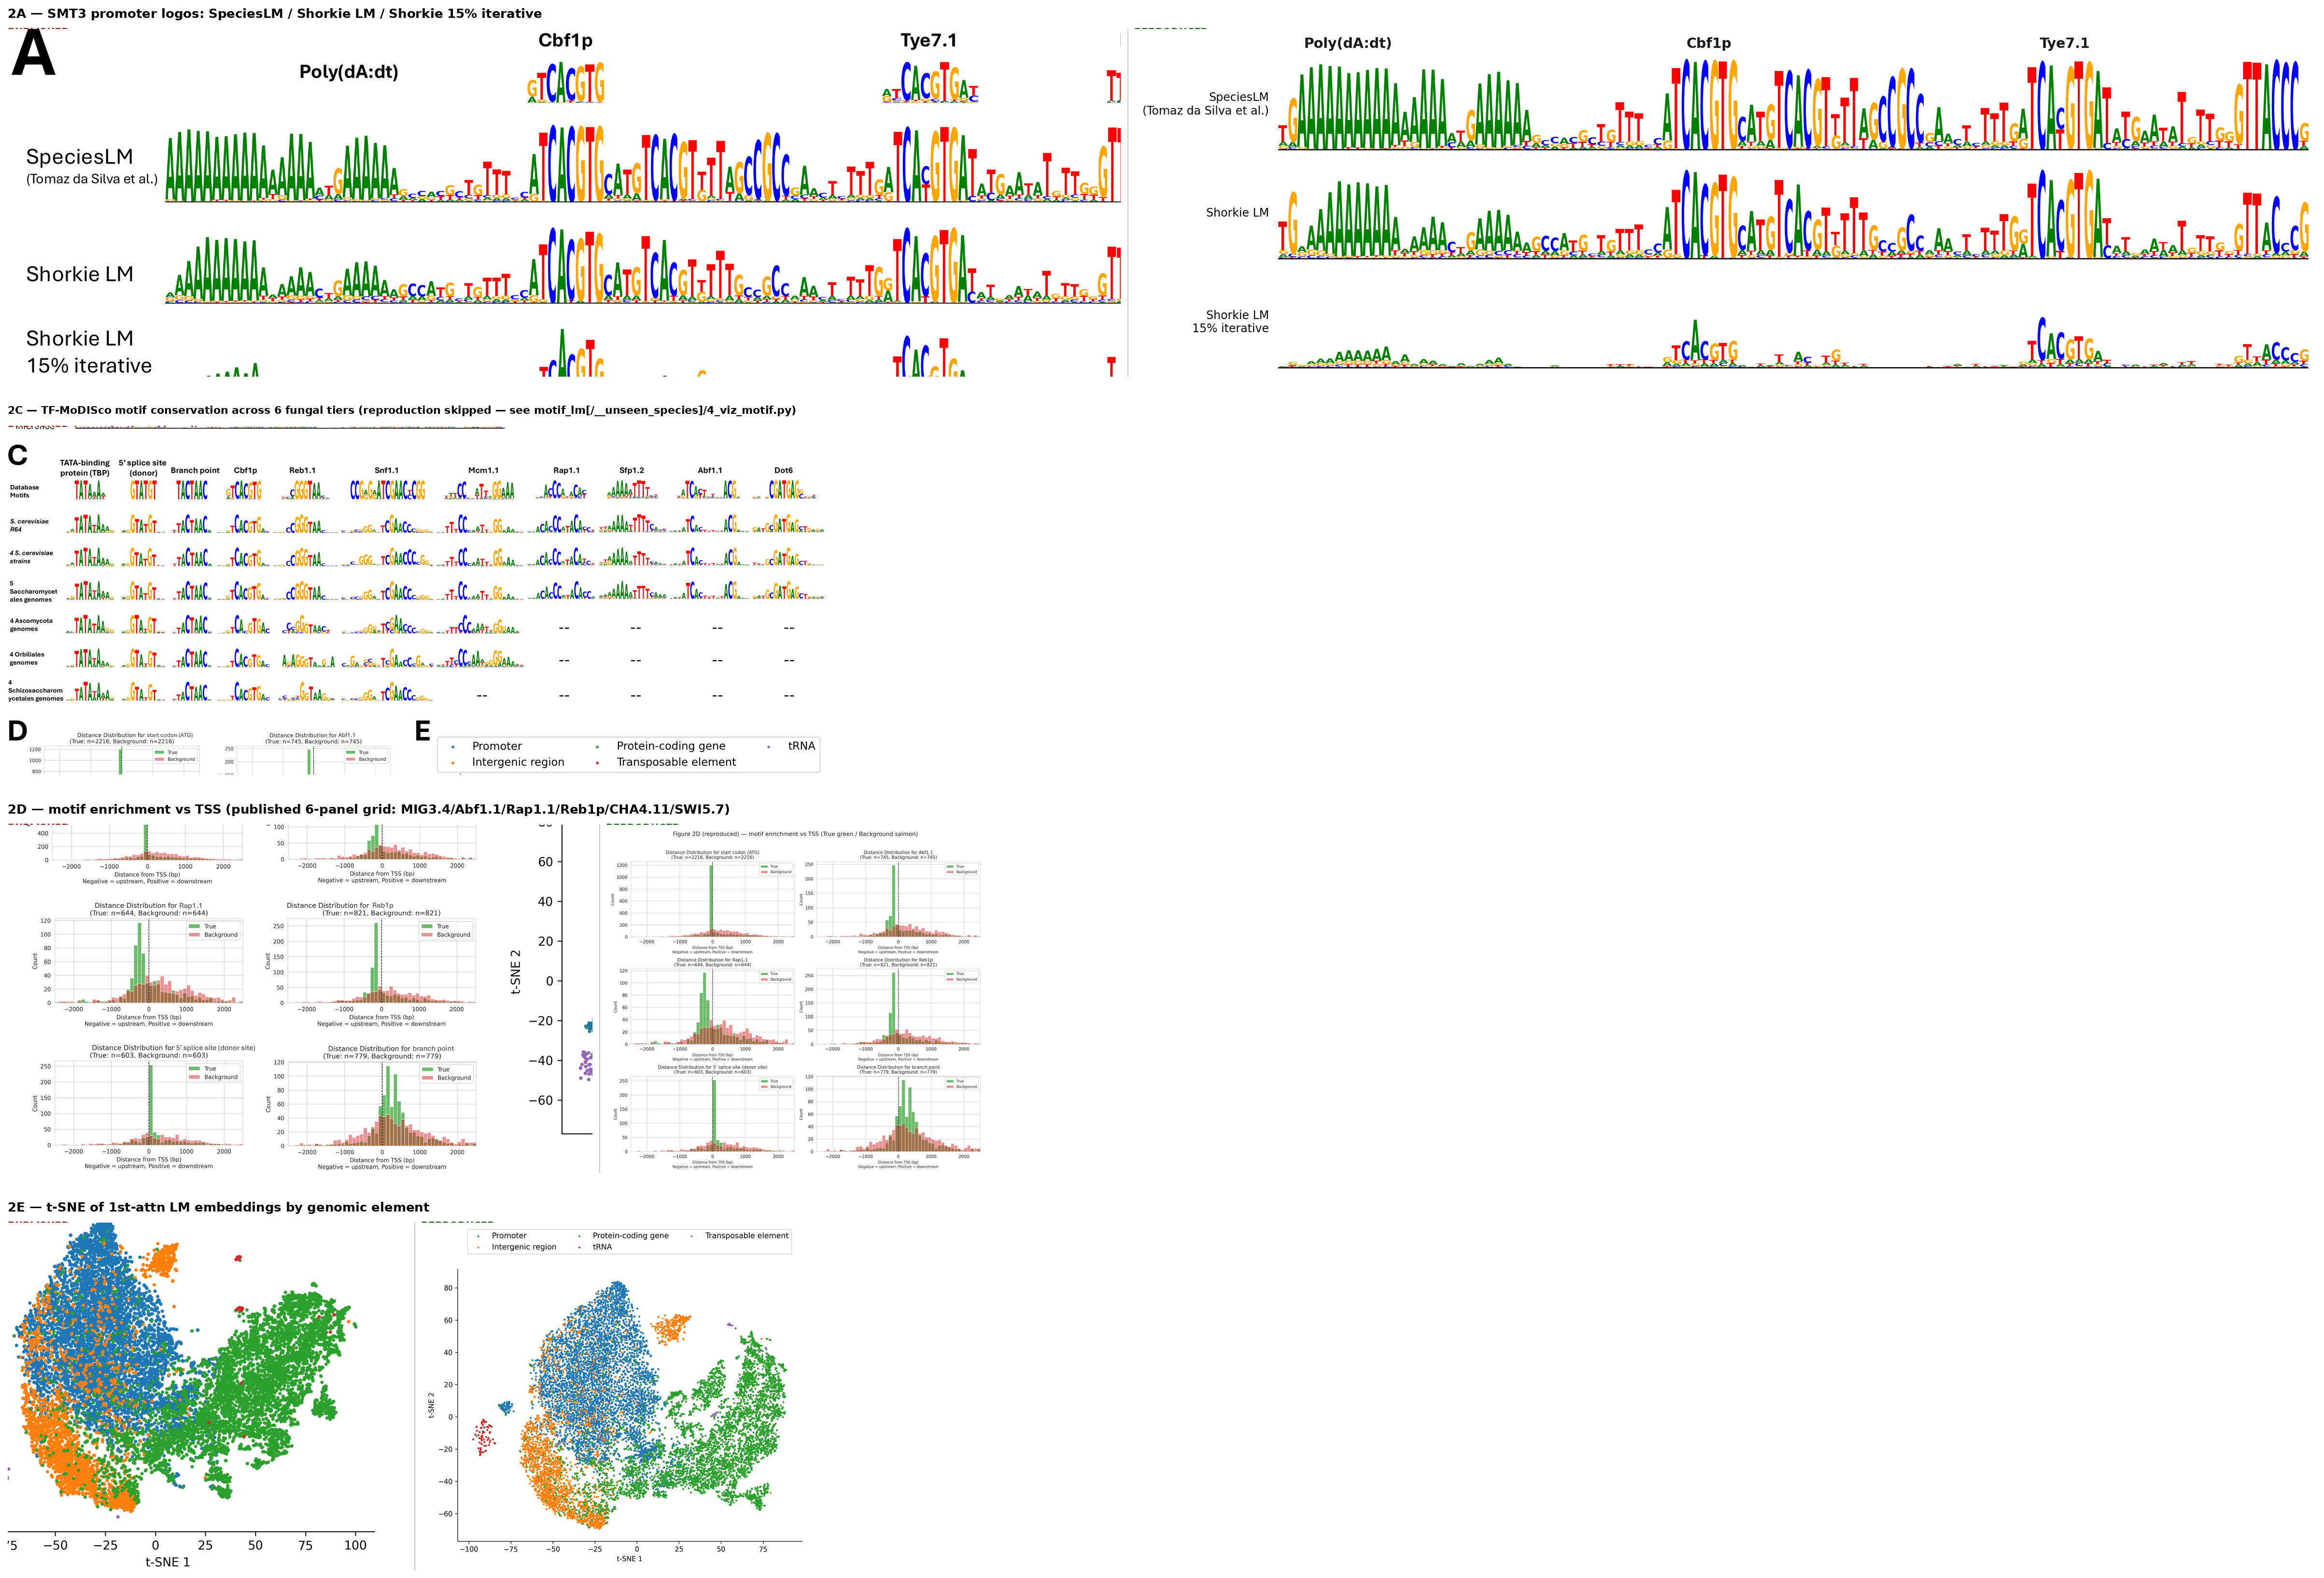
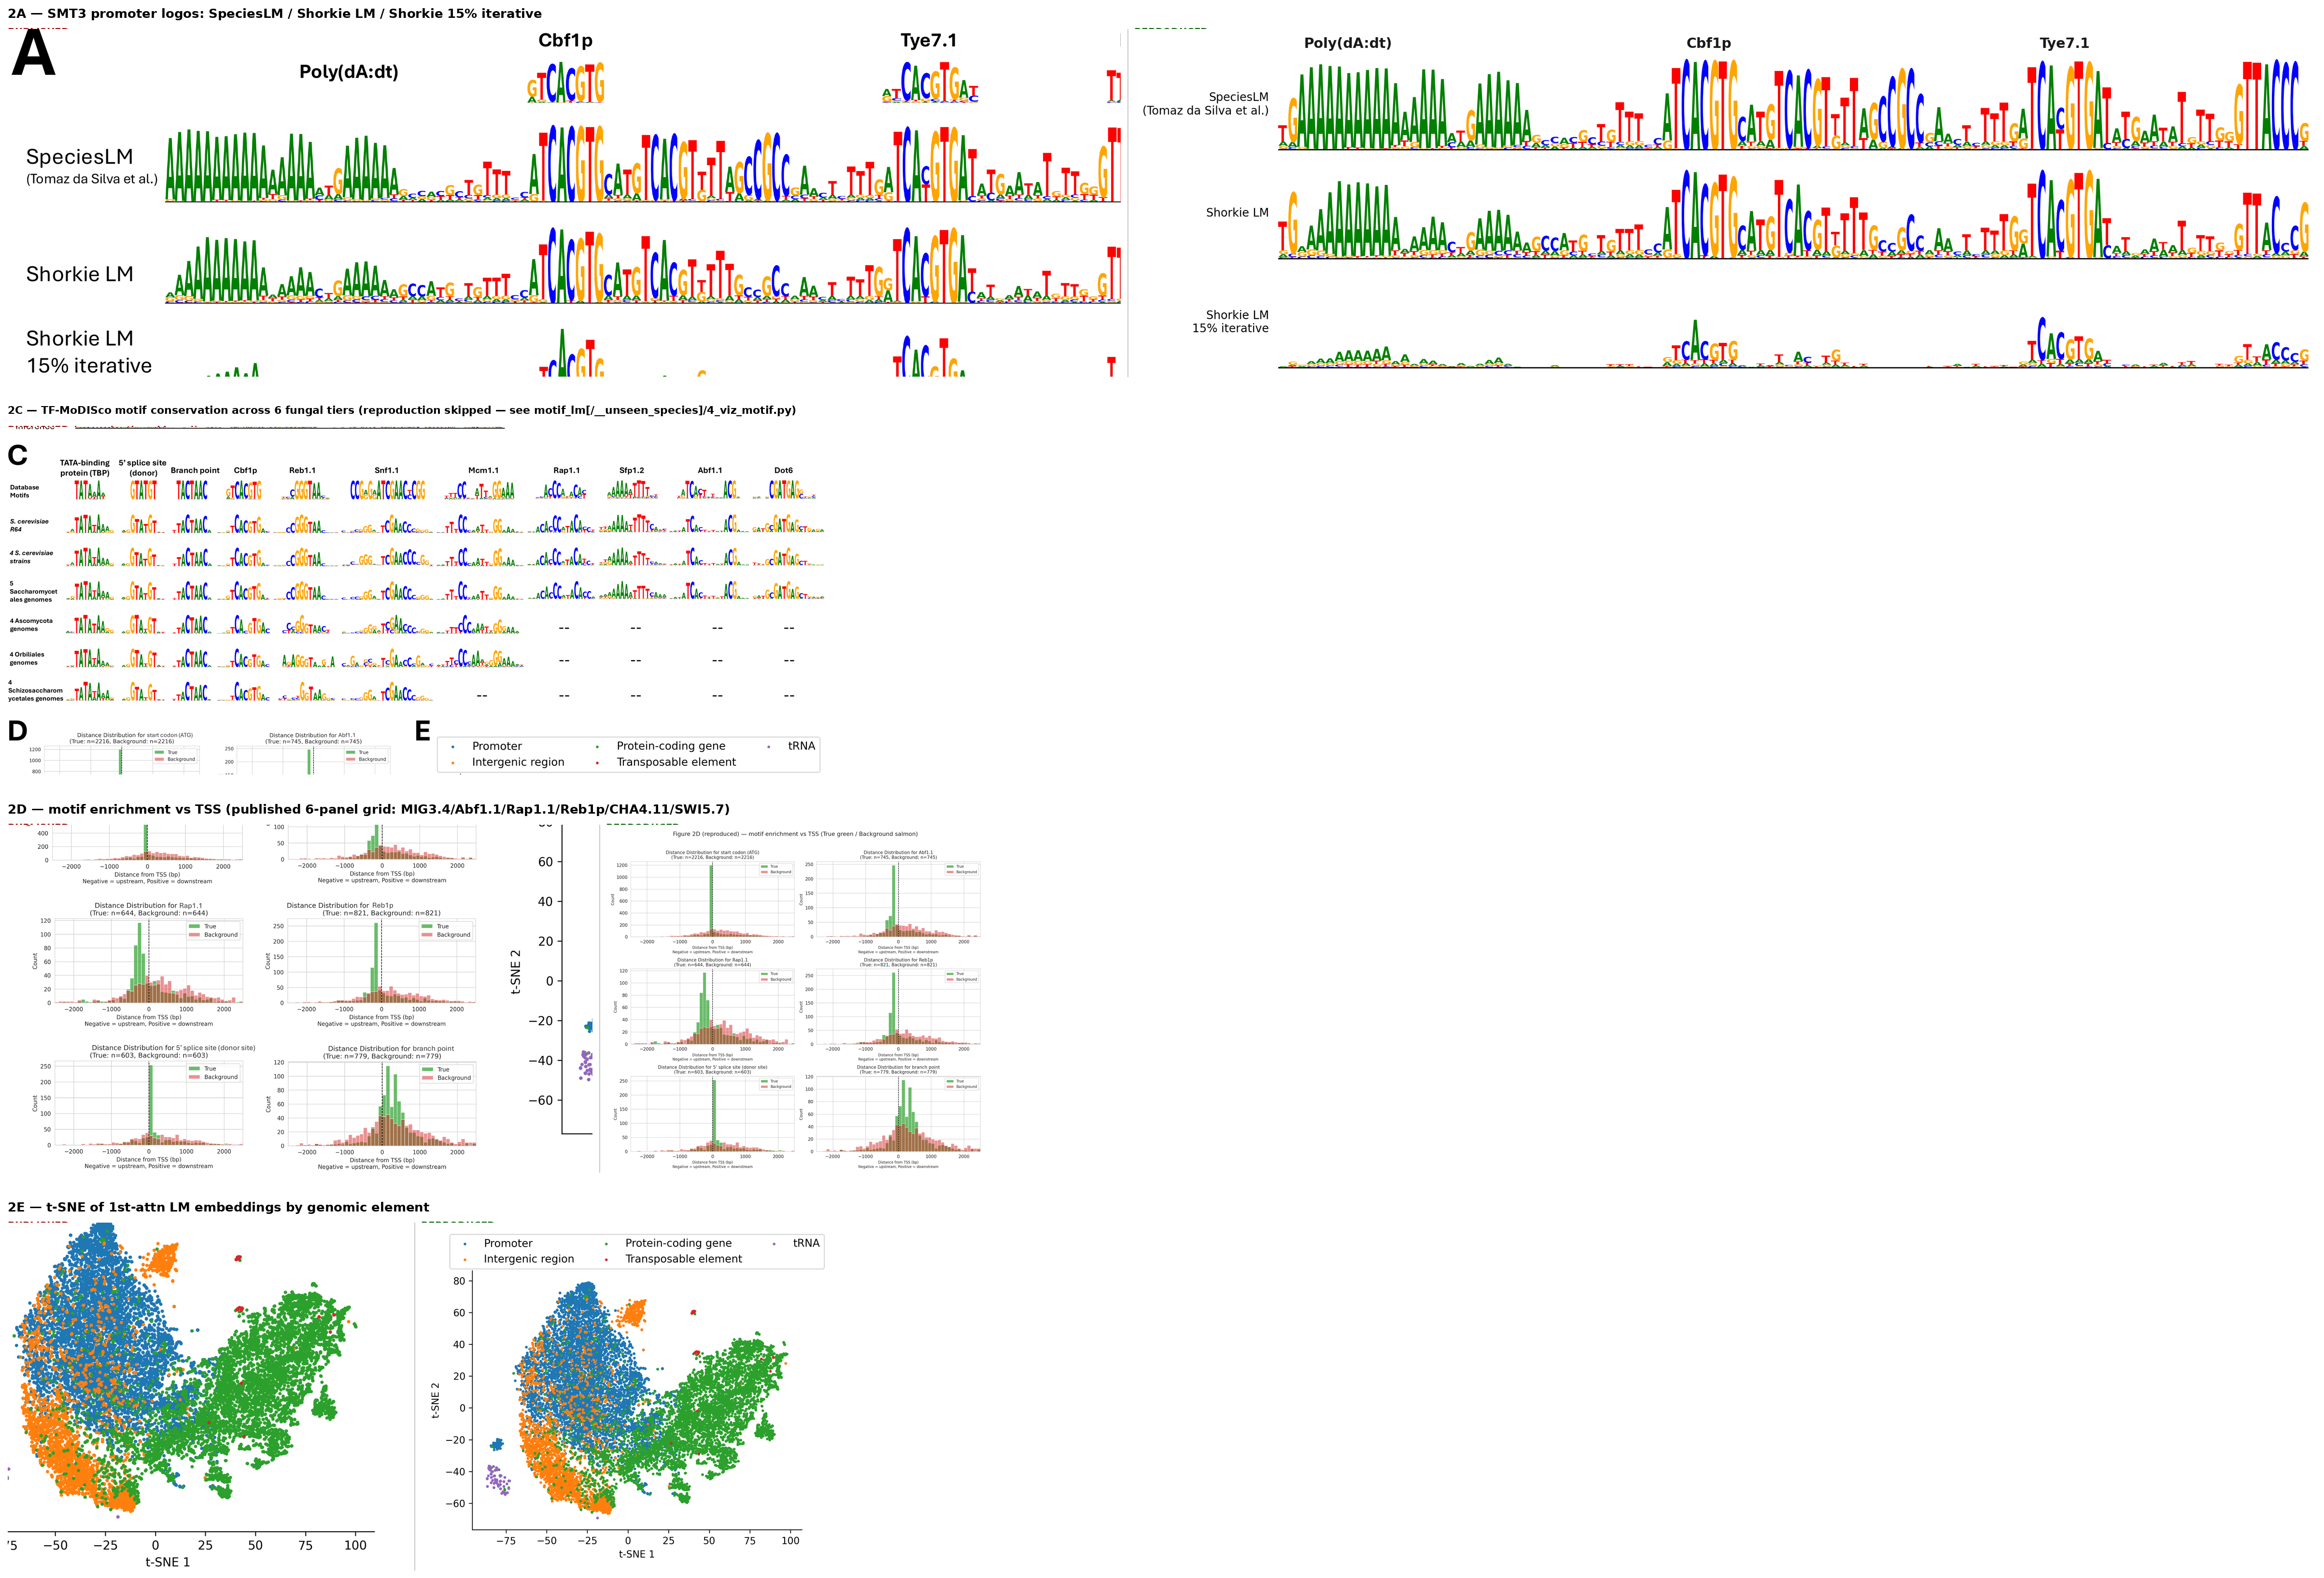
Figure 2E: match the published t-SNE setup exactly (1st self-attention layer + colors/figsize)
The committed 2E reproduction was visibly different from the published panel. A
thorough re-scan of the original `umap_cluster_promoter/2_viz_clusters_LM.py` and
its on-disk per-layer renders pinned four divergences, now fixed:

- Layer (primary): `build_2E_tsne.py` selected the embedding layer with
  `next(iter(emb_data))` = `embeddings_dense` (768-dim, the first h5 key). The
  published panel uses `embeddings_multihead_attention` (384-dim, the 1st
  self-attention layer) — confirmed by matching the published scatter to the
  per-layer renders (far-right green extent ~110, two stacked red clusters at
  x≈40, blue/green crescent). Now selected explicitly, with presence + row-count
  guards.
- Colors: the original maps Transposable element=red, tRNA=purple (palette
  [blue,orange,green,red,purple] over the ordered feature list); the reproduction
  had them swapped. Fixed in PAL + ORDER of build_2E_tsne.py and render_2E.py.
- figsize: original is (6,5) (the (8,7) is commented out); was (8,7). Fixed.

Regenerated proj/png/separation (new silhouette 0.096; tRNA 0.85 / TE 0.64 /
Promoter 0.19), re-ran the notebook (verify 21/21), refreshed the side-by-side
(panel_E now matches published), and updated README/DISCREPANCIES/AUDIT_MATRIX.
The 16,384 qualifying points are correct (released h5 metadata = 16,518 rows; the
2080-row combined_intervals.csv is a GTF intervals file, not the embedding metadata).

Claude-Session: https://claude.ai/code/session_019s5Wa4TBqkiZwGSND22nwo

Changed region(s): [[0.187, 0.7803, 0.3428, 0.9988]]

diff --git a/reproduction/figure_02/recheck/build_2E_tsne.py b/reproduction/figure_02/recheck/build_2E_tsne.py
@@ -39,16 +39,18 @@ t0 = time.time()
 F2 = Path(config.repo_root()) / "reproduction" / "figure_02"
 RD = F2 / "reproduced"; RECHECK = F2 / "recheck"; RECHECK.mkdir(parents=True, exist_ok=True)
 
-# published palette + plot order (faithful to 2_viz_clusters_LM.py's feature ordering)
+# published palette + plot order, faithful to 2_viz_clusters_LM.py: the original derives
+# colors as palette=[blue,orange,green,red,purple] over the ordered feature list, i.e.
+# Transposable element=red and tRNA=purple (tRNA drawn last/on top).
 PAL = {"Promoter": "tab:blue", "Intergenic region": "tab:orange",
-       "Protein-coding gene": "tab:green", "tRNA": "tab:red",
-       "Transposable element": "tab:purple"}
-ORDER = ["Promoter", "Intergenic region", "Protein-coding gene", "tRNA", "Transposable element"]
+       "Protein-coding gene": "tab:green", "Transposable element": "tab:red",
+       "tRNA": "tab:purple"}
+ORDER = ["Promoter", "Intergenic region", "Protein-coding gene", "Transposable element", "tRNA"]
 
 
 def render(proj, mf, out_png):
-    """Faithful render: figsize (8,7), s=3, no title, no grid, spines top/right off."""
-    fig, ax = plt.subplots(figsize=(8, 7))
+    """Faithful render: figsize (6,5), s=3, no title, no grid, spines top/right off."""
+    fig, ax = plt.subplots(figsize=(6, 5))
     for f in ORDER:
         i = (mf["feature"] == f).values
         if i.any():
@@ -87,8 +89,14 @@ def main():
     mask = mdf["orig"].isin(inc) & ~mdf["feature"].isin(exc)
     nice = {"protein_coding": "Protein-coding gene", "intergenic": "Intergenic region",
             "tRNA": "tRNA", "transposable_element": "Transposable element", "promoter": "Promoter"}
-    ds = next(iter(emb_data))
+    # Published 2E uses the 1st self-attention layer (= the original script's
+    # _embeddings_multihead_attention_features.png), NOT the first h5 key (`embeddings_dense`,
+    # which is what next(iter(emb_data)) silently picked). Select it explicitly.
+    ds = "embeddings_multihead_attention"
+    assert ds in emb_data, f"{ds} not found; available: {list(emb_data)}"
     allemb = np.concatenate(emb_data[ds], axis=0)
+    assert allemb.shape[0] == len(mdf), \
+        f"embedding/metadata size mismatch for {ds}: {allemb.shape[0]} vs {len(mdf)}"
     emb = allemb[mask.values]
     mf = mdf.loc[mask].copy(); mf["feature"] = mf["feature"].map(lambda x: nice.get(x, x))
     mf = mf.reset_index(drop=True)

diff --git a/reproduction/figure_02/recheck/render_2E.py b/reproduction/figure_02/recheck/render_2E.py
@@ -1,9 +1,9 @@
 #!/usr/bin/env python3
 """Figure 2E — re-render from the cached full-16-chr t-SNE projection, faithful to the
-original `2_viz_clusters_LM.py` styling (figsize (8,7), s=3, no title, no grid,
+original `2_viz_clusters_LM.py` styling (figsize (6,5), s=3, no title, no grid,
 spines top/right off, legend top-center ncol=3 fontsize=11, dpi=300), with the
 published class palette (Promoter blue / Intergenic orange / Protein-coding green /
-tRNA red / Transposable element purple).
+Transposable element red / tRNA purple).
 
 Loads reproduced/panelE_tsne/{proj.npy,meta.csv} (computed by build_2E_tsne.py, which
 runs t-SNE directly on the full embeddings with NO PCA) — no t-SNE recompute. Keeps
@@ -31,14 +31,14 @@ mf = pd.read_csv(cache / "meta.csv")
 labels = mf["feature"].values
 
 PAL = {"Promoter": "tab:blue", "Intergenic region": "tab:orange",
-       "Protein-coding gene": "tab:green", "tRNA": "tab:red",
-       "Transposable element": "tab:purple"}
-ORDER = ["Promoter", "Intergenic region", "Protein-coding gene", "tRNA", "Transposable element"]
+       "Protein-coding gene": "tab:green", "Transposable element": "tab:red",
+       "tRNA": "tab:purple"}
+ORDER = ["Promoter", "Intergenic region", "Protein-coding gene", "Transposable element", "tRNA"]
 
 sil = float(silhouette_score(proj, labels))
 per = pd.Series(silhouette_samples(proj, labels), index=labels).groupby(level=0).mean()
 
-fig, ax = plt.subplots(figsize=(8, 7))
+fig, ax = plt.subplots(figsize=(6, 5))
 for f in ORDER:
     i = (mf["feature"] == f).values
     if i.any():

diff --git a/reproduction/figure_02/recheck/DISCREPANCIES.md b/reproduction/figure_02/recheck/DISCREPANCIES.md
@@ -65,8 +65,9 @@ CSVs (`fig2D_enrichment`, `fig2E_separation`, `fig2A_consistency`, `recheck_chec
   `build_2D_tss.py` asserts each motif's True hit count against the published n, so the
   panel both reproduces the figure and verifies the relabelling against the released data.
 - **2E — faithful to the original** (no PCA pre-reduction; sklearn-default t-SNE), all 16
-  chromosomes, published class palette (Promoter blue, Intergenic orange, Protein-coding
-  green, tRNA red, Transposable purple), no title, no grid, s=3. silhouette ≈ 0.08.
+  chromosomes, the **1st self-attention layer** (`embeddings_multihead_attention`), published
+  class palette (Promoter blue, Intergenic orange, Protein-coding green, **Transposable element
+  red, tRNA purple**), figsize **(6,5)**, no title, no grid, s=3. silhouette ≈ 0.10.
 
 ---
 
@@ -78,7 +79,7 @@ CSVs (`fig2D_enrichment`, `fig2E_separation`, `fig2A_consistency`, `recheck_chec
 | **2B** | GPU (iterative MLM) | **out of scope** | not reproduced | per-iteration matrix needs a GPU forward pass |
 | **2C** | computational (MoDISco) | **upstream scripts provided** | grid not re-derived in the notebook | depends on the full per-tier MoDISco `.h5` set |
 | **2D** | computational | **published 6-panel grid reproduced** | none (counts asserted) | relabel: start codon=MIG3.4, 5′SS=CHA4.11, branch=SWI5.7 |
-| **2E** | computational (t-SNE) | reproduced, faithful (no PCA) | t-SNE layout stochastic | seed/implementation (separation quantified) |
+| **2E** | computational (t-SNE) | reproduced, faithful (multihead layer, no PCA) | t-SNE layout stochastic | wrong layer/colors/figsize (fixed); seed/impl (separation quantified) |
 
 ---
 
@@ -135,17 +136,30 @@ CSVs (`fig2D_enrichment`, `fig2E_separation`, `fig2A_consistency`, `recheck_chec
   not part of this reproduction. (The 2A 15%-iterative row does not depend on it; it uses
   the precomputed 3-architecture ensemble.)
 
-### 2E — t-SNE made faithful to the original (was PCA-50 → capped t-SNE)
-- The committed reproduction inserted a **PCA-50 pre-reduction** + `init="pca"` (and an
-  earlier version capped at 2,500 points), which changed the t-SNE geometry so the layout
-  did not match the published scatter.
-- **Fix:** match the original `2_viz_clusters_LM.py` exactly —
-  `TSNE(n_components=2, random_state=42, verbose=1)` run **directly on the full
-  embeddings (no PCA)** over all qualifying intervals across the 16 chromosomes (≈16,384
-  points), published palette, no title, no grid, s=3. Cluster separation quantified by
-  **silhouette ≈ 0.08** (tRNA ~0.88, Transposable ~0.39, Promoter ~0.22 well separated;
-  Intergenic/Protein-coding overlap slightly — biologically sensible). t-SNE layout is
-  stochastic across sklearn versions, so the separation metric is the quantitative tie.
+### 2E — t-SNE made faithful to the original (two rounds of fixes)
+**Round 1 (PCA):** the committed reproduction inserted a **PCA-50 pre-reduction** + `init="pca"`
+(and an earlier version capped at 2,500 points), which changed the t-SNE geometry. Fixed by
+running `TSNE(n_components=2, random_state=42, verbose=1)` **directly on the full embeddings
+(no PCA)** over all qualifying intervals across the 16 chromosomes (≈16,384 points).
+
+**Round 2 (layer + colors + figsize):** a thorough re-scan of `2_viz_clusters_LM.py` and its
+on-disk renders (`embeddings_LM_sequence/viz_gene_intergenic/_embeddings_*_features.png`) found
+three further divergences — the figure still didn't match the published scatter:
+- **Wrong embedding layer (primary).** `build_2E_tsne.py` selected the layer with
+  `ds = next(iter(emb_data))`, which yields **`embeddings_dense`** (768-dim, the first h5 key).
+  The published panel uses **`embeddings_multihead_attention`** (384-dim, the *1st self-attention
+  layer*) — confirmed by matching the published scatter to the per-layer renders (the green blob's
+  far-right extent ~110, the two stacked red clusters at x≈40, and the blue/green crescent all match
+  `multihead_attention`, not `dense`). Now selected explicitly (with a presence + row-count guard).
+- **Swapped colors.** The original palette logic (`[blue,orange,green,red,purple]` over
+  `[Promoter, Intergenic, Protein-coding, Transposable element, tRNA]`) gives **Transposable
+  element = red, tRNA = purple**; the reproduction had them reversed. Fixed.
+- **figsize.** Original is `(6,5)` (the `(8,7)` is commented out); the reproduction used `(8,7)`.
+  Fixed.
+- Cluster separation now **silhouette ≈ 0.10** (tRNA ~0.85, Transposable element ~0.64,
+  Promoter ~0.19 well separated; Intergenic/Protein-coding overlap slightly — biologically
+  sensible). t-SNE layout is stochastic across sklearn versions, so the separation metric is the
+  quantitative tie; the qualitative match is confirmed in `recheck/panel_E_sidebyside.png`.
 
 ## Numbers
 `build_verify_fig02.py` → `verify_fig02.csv` / `recheck_checks_fig02.csv`: **all PASS**

diff --git a/reproduction/figure_02/README.md b/reproduction/figure_02/README.md
@@ -35,7 +35,7 @@ Figure 2 demonstrates that the masked DNA LM reconstructs canonical yeast TF mot
 `reproduce_figure_02.ipynb` reproduces panels **2A, 2D, 2E** in `reproduced/`:
 `Figure_2A_reproduced.png` (3 aligned SMT3 logos), `Figure_2D_reproduced.png` (the 6-panel TSS-distance grid), `Figure_2E_reproduced.png` (t-SNE). Panel 2C is a markdown skip-note pointing to the upstream scripts; panel 2B is omitted.
 
-The 2E t-SNE is precomputed by `recheck/build_2E_tsne.py` — **faithful to the original** `2_viz_clusters_LM.py`: `TSNE(n_components=2, random_state=42, verbose=1)` run **directly on the full embeddings (no PCA pre-reduction)** over all qualifying intervals across the 16 chromosomes; the notebook loads the cache and renders via `recheck/render_2E.py`. **Node note:** t-SNE thrashes without thread limits — run heavy steps with `OMP_NUM_THREADS=4` and via `reproduction/common/run_in_tmux.sh` so they survive disconnection.
+The 2E t-SNE is precomputed by `recheck/build_2E_tsne.py` — **faithful to the original** `2_viz_clusters_LM.py`: `TSNE(n_components=2, random_state=42, verbose=1)` run **directly on the full embeddings (no PCA pre-reduction)** of the **1st self-attention layer** (`embeddings_multihead_attention`) over all qualifying intervals across the 16 chromosomes; the notebook loads the cache and renders via `recheck/render_2E.py`. **Node note:** t-SNE thrashes without thread limits — run heavy steps with `OMP_NUM_THREADS=4` and via `reproduction/common/run_in_tmux.sh` so they survive disconnection.
 
 ## Phase 3 — Verification
 
@@ -47,7 +47,7 @@ The 2E t-SNE is precomputed by `recheck/build_2E_tsne.py` — **faithful to the 
 ### Panel notes (matching the published appearance)
 - **2A — three conservation DNA letter logos, all registered to `SMT3_seq[690:800]`** (A green / C blue / G orange / T red): **SpeciesLM** (regenerated `all_prbs_SMT3[690:800]`, argmax-vs-genome 0.946), **Shorkie LM** (gene-averaged upstream `[201:311]`, genome recon 0.955), **Shorkie 15% iterative** (`[201:311]`, **precomputed 3-architecture ensemble**, recon 0.61 / corr 0.81 to unmasked). The earlier reproduction plotted the wrong locus (the cached `all_prbs.npy` is a chrX:607,855-608,355 example) — fixed.
 - **2D — the published 6-panel grid in the exact `3_plot_tss_dist_freq.py` style** (seaborn whitegrid, 50 bins, xlim ±2500, flipped distance, green True / salmon Background, dashed TSS line). All six panels come from the released `motif_tss_distances.csv`; three are TF motifs the paper relabelled to the genic feature they mark — **start codon (ATG) = MIG3.4**, **5′ splice site (donor site) = CHA4.11**, **branch point = SWI5.7** — alongside Abf1.1 / Rap1.1 / Reb1p. (The previous reproduction plotted only the 3 promoter TFs and documented the genic features as unavailable; the relabelling closes that gap and the counts match the published panel exactly.)
-- **2E — faithful to the original** (no PCA pre-reduction; sklearn-default t-SNE), all 16 chromosomes, published class palette (Promoter blue, Intergenic orange, Protein-coding green, tRNA red, Transposable purple), no title, no grid, s=3. silhouette ≈ 0.08 (tRNA/TE/Promoter well separated).
+- **2E — faithful to the original** (no PCA pre-reduction; sklearn-default t-SNE) on the **1st self-attention layer** (`embeddings_multihead_attention`), all 16 chromosomes, published class palette (Promoter blue, Intergenic orange, Protein-coding green, **Transposable element red, tRNA purple**), figsize **(6,5)**, no title, no grid, s=3. silhouette ≈ 0.10 (tRNA 0.85 / TE 0.64 / Promoter 0.19 well separated).
 
 Per-panel `recheck/panel_{A,C,D,E}_sidebyside.png` (C is published-only) + `recheck/Figure_2_published_vs_reproduced.png`.
 
@@ -58,4 +58,4 @@ Per-panel `recheck/panel_{A,C,D,E}_sidebyside.png` (C is published-only) + `rech
 | 2B | **out of scope** | per-iteration 15%-masked matrix (GPU) — not reproduced |
 | 2C | **upstream scripts (not re-rendered)** | `motif_lm/4_viz_motif.py` + `motif_lm__unseen_species/4_viz_motif.py` (refactored, config-driven, `.sh` wrappers); grid not re-derived in the notebook |
 | 2D | **published 6-panel grid reproduced** | MIG3.4/ABF1.1/RAP1.1/Reb1p/CHA4.11/SWI5.7; 3 relabelled to start codon / 5′SS / branch; counts match published |
-| 2E | **reproduced (all 16 chr), faithful** | original t-SNE recipe (no PCA); silhouette-quantified separation; t-SNE layout stochastic |
+| 2E | **reproduced (all 16 chr), faithful** | original t-SNE recipe (multihead-attention layer, no PCA, TE=red/tRNA=purple, 6×5); silhouette-quantified separation; t-SNE layout stochastic |

diff --git a/reproduction/AUDIT_MATRIX.md b/reproduction/AUDIT_MATRIX.md
@@ -38,7 +38,7 @@ Package: [`figure_02/`](figure_02/)
 | B | per-iteration 15%-masked PPM reconstruction matrix | gpu | LM forward pass (`use_bert=true`, `mask_rate=0.15`) | — | yes | — | — | — (out of scope) |
 | C | Motif summary across 6 datasets (TF-MoDISco: TATA, splice donor, branch pt, Cbf1p, Reb1.1, Snf1.1, Mcm1.1, Rap1.1, Sfp1.2, Abf1.1, Dot6) | comp | `…/motif_lm/4_viz_motif.py` + `…/motif_lm__unseen_species/4_viz_motif.py` (+ `.sh`) | modisco `.h5` per tier → `results.modisco_lm` (+ `results.modisco_unseen`) | no | — | present (per-tier `.h5`) | ✅ scripts provided (not re-rendered) |
 | D | Histograms: published 6-panel motif-vs-TSS grid (MIG3.4/ABF1.1/RAP1.1/Reb1p/CHA4.11/SWI5.7; 3 relabelled to start codon / 5′SS / branch) | comp | `…/motif_lm/4_motif_to_tss_dist/3_plot_tss_dist_freq.py`; render `figure_02/recheck/build_2D_tss.py` | `motif_tss_distances.csv`, `background_tss_distances.csv` (pipeline output) | no | in-notebook | present (CSVs) | ✅ |
-| E | t-SNE of genomic elements from 1st self-attention layer (faithful: no PCA) | comp | `04_analysis/shorkie_lm/umap_cluster_promoter/2_viz_clusters_LM.py`; precompute `figure_02/recheck/build_2E_tsne.py`, render `render_2E.py` | `embeddings_chr*.h5` (16) → `results.umap`, `genome.gtf` | no | `fig05` | present (~292M) | ✅ |
+| E | t-SNE of genomic elements from the 1st self-attention layer `embeddings_multihead_attention` (faithful: no PCA, TE=red/tRNA=purple, 6×5) | comp | `04_analysis/shorkie_lm/umap_cluster_promoter/2_viz_clusters_LM.py`; precompute `figure_02/recheck/build_2E_tsne.py`, render `render_2E.py` | `embeddings_chr*.h5` (16) → `results.umap`, `genome.gtf` | no | `fig05` | present (~292M) | ✅ |
 
 ---
 